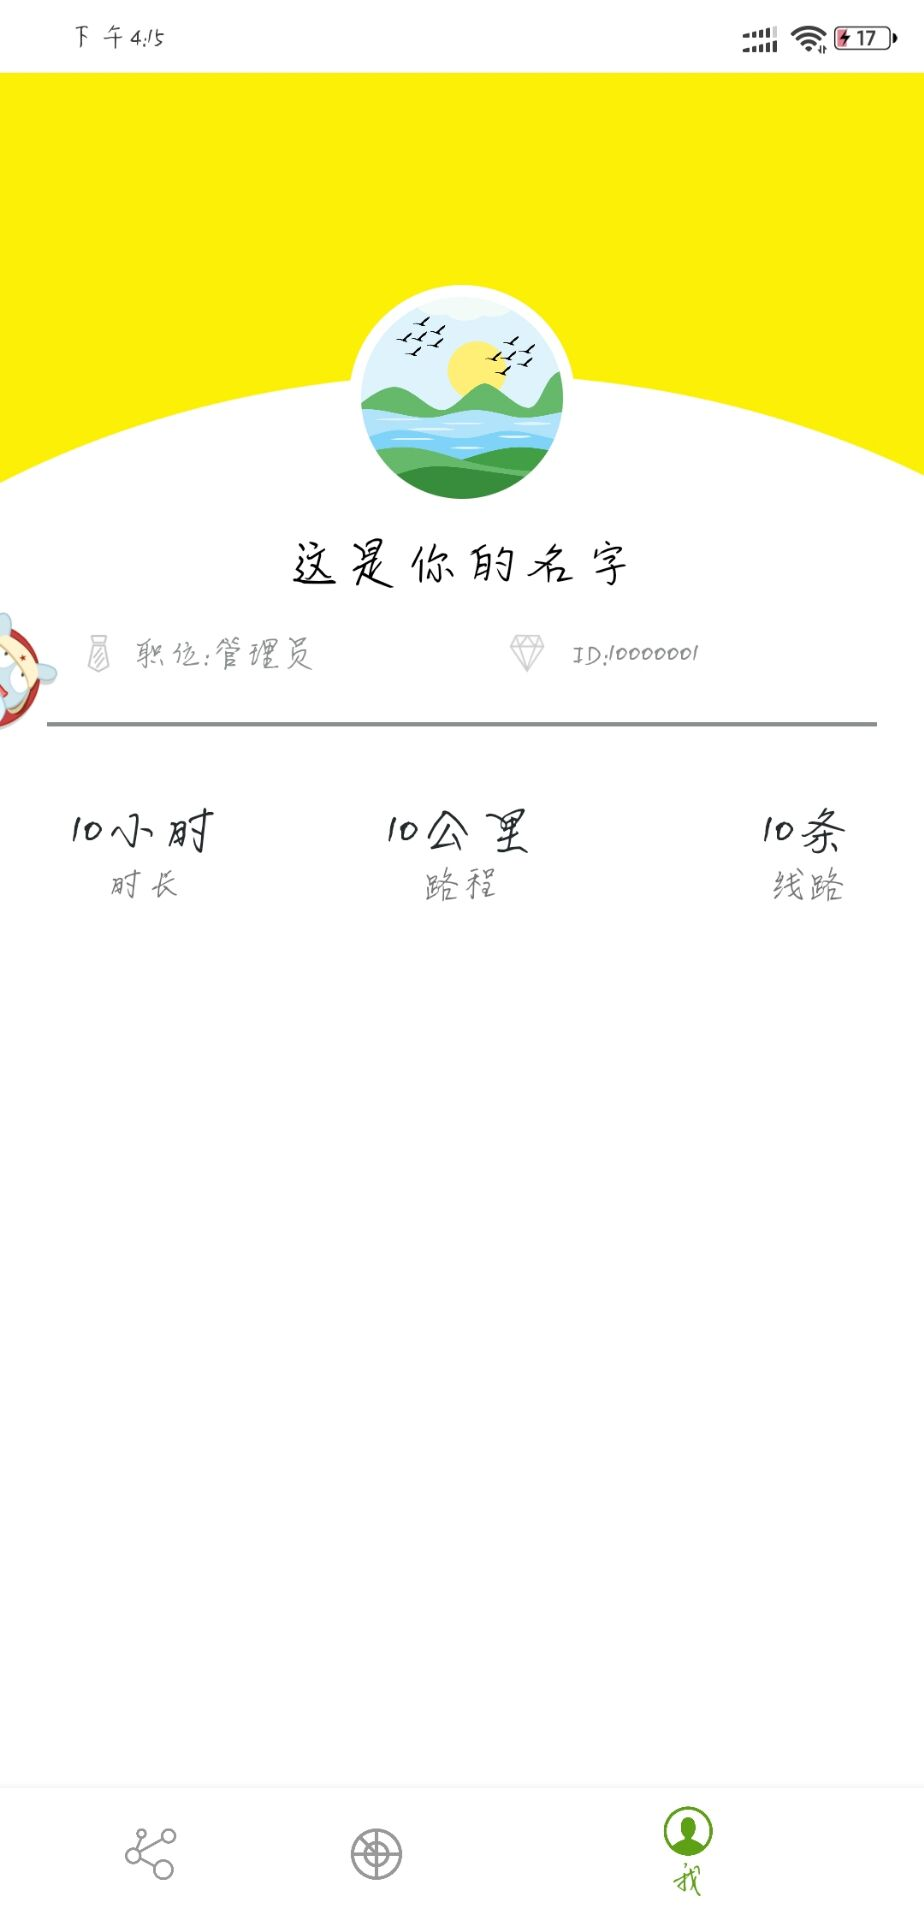
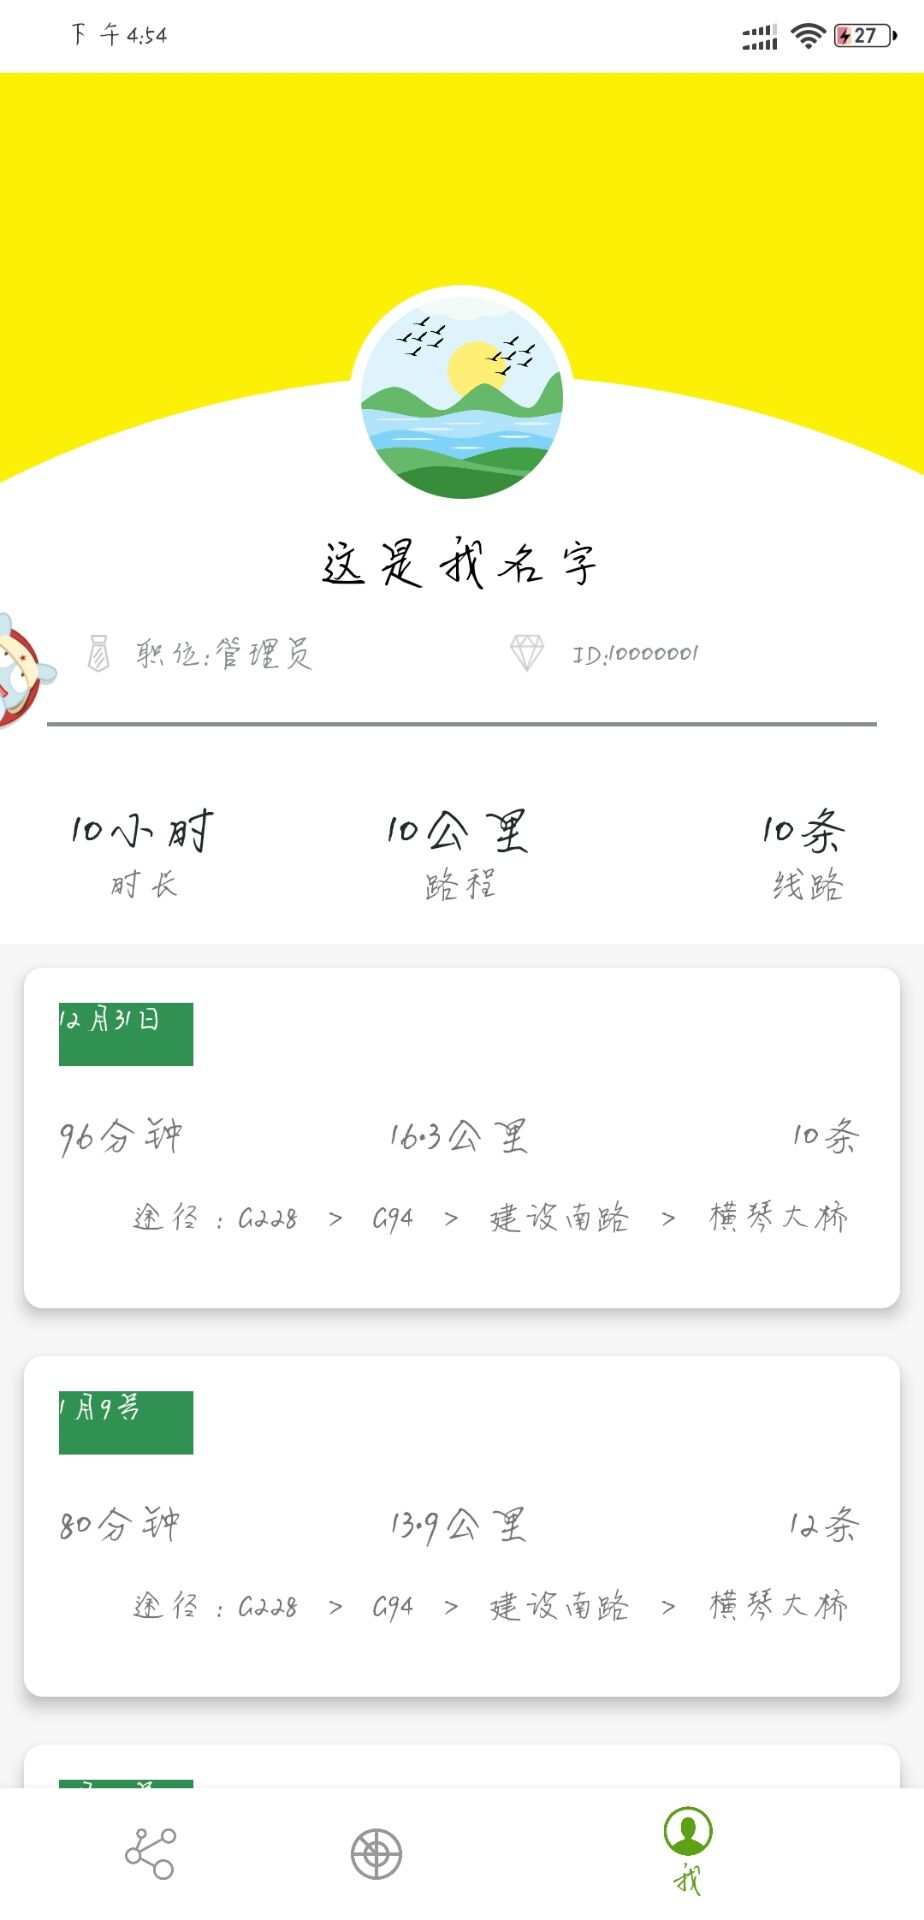
:bug: changed pictures

diff --git a/app/src/main/java/com/example/a65667/road/fragment/MineFragment.java b/app/src/main/java/com/example/a65667/road/fragment/MineFragment.java
@@ -37,7 +37,6 @@ public class MineFragment extends Fragment {
     @Override
     public void onCreate(Bundle savedInstanceState) {
         super.onCreate(savedInstanceState);
-
     }
 
     @Nullable
@@ -49,37 +48,30 @@ public class MineFragment extends Fragment {
     }
 
     private void initView(){
-        List<String> startList = new ArrayList<>();
-        List<String> endList = new ArrayList<>();
+        List<String> dataTime = new ArrayList<>();
         List<String> lastTime = new ArrayList<>();
         List<String> holeCount = new ArrayList<>();
         List<String> crackCount = new ArrayList<>();
 
+        dataTime.add("12月31日");
+        lastTime.add("96分钟");
+        holeCount.add("16.3公里");
+        crackCount.add("10条");
 
-        startList.add("开始: 2019年11月10日 18:02");
-        endList.add("结束: 2019年11月10日 18:27");
-        lastTime.add("时长:25分钟");
-        holeCount.add("坑数:8个");
-        crackCount.add("缝数42条");
+        dataTime.add("1月9号");
+        lastTime.add("80分钟");
+        holeCount.add("13.9公里");
+        crackCount.add("12条");
 
+        dataTime.add("1月20号");
+        lastTime.add("105分钟");
+        holeCount.add("19.4公里");
+        crackCount.add("8条");
 
-        startList.add("开始: 2019年10月6日 15:46");
-        endList.add("结束: 2019年10月6日 16:42");
-        lastTime.add("时长:56分钟");
-        holeCount.add("坑数:4个");
-        crackCount.add("缝数:11条");
-
-        startList.add("开始: 2019年10月5日 11:43");
-        endList.add("结束: 2019年10月5日 12:07");
-        lastTime.add("时长:24分钟");
-        holeCount.add("坑数:1个");
-        crackCount.add("缝数:13条");
-
-        startList.add("开始: 2019年10月5日 9:13");
-        endList.add("结束: 2019年10月5日 9:27");
-        lastTime.add("时长:14分钟");
-        holeCount.add("坑数:3个");
-        crackCount.add("缝数:21条");
+        dataTime.add("2月4号");
+        lastTime.add("96分钟");
+        holeCount.add("16.3公里");
+        crackCount.add("10条");
 
         recyclerView = root.findViewById(R.id.rv_mine);
         mAdaper = new MultiTypeAdapter();
@@ -88,10 +80,9 @@ public class MineFragment extends Fragment {
         recyclerView.setAdapter(mAdaper);
         mItems = new Items();
         mItems.add(new MineTopItem());
-        for (int i = 0; i < startList.size(); i++) {
+        for (int i = 0; i < lastTime.size(); i++) {
             MineRecordItem mineRecordItem = new MineRecordItem();
-            mineRecordItem.setStartTime(startList.get(i));
-            mineRecordItem.setEndTime(endList.get(i));
+            mineRecordItem.setDataTime(dataTime.get(i));
             mineRecordItem.setLastTime(lastTime.get(i));
             mineRecordItem.setHoleCount(holeCount.get(i));
             mineRecordItem.setCrackCount(crackCount.get(i));

diff --git a/app/src/main/java/com/example/a65667/road/binder/MineRecordItemViewBinder.java b/app/src/main/java/com/example/a65667/road/binder/MineRecordItemViewBinder.java
@@ -15,7 +15,7 @@ import me.drakeet.multitype.ItemViewBinder;
 public class MineRecordItemViewBinder extends ItemViewBinder<MineRecordItem, MineRecordItemViewBinder.ViewHolder> {
     private MineRecordItem mineRecordItem;
     private View root;
-    private TextView tvLast, tvHole, tvCrack;
+    private TextView tvData, tvLast, tvHole, tvCrack;
 
     @NonNull
     @Override
@@ -31,9 +31,11 @@ public class MineRecordItemViewBinder extends ItemViewBinder<MineRecordItem, Min
     }
 
     private void initView() {
+        tvData = root.findViewById(R.id.tv_data);
         tvLast = root.findViewById(R.id.tv_last_time);
         tvHole = root.findViewById(R.id.tv_hole_count);
         tvCrack = root.findViewById(R.id.tv_crack_count);
+        tvData.setText(mineRecordItem.getDataTime());
         tvLast.setText(mineRecordItem.getLastTime());
         tvHole.setText(mineRecordItem.getHoleCount());
         tvCrack.setText(mineRecordItem.getCrackCount());

diff --git a/app/src/main/java/com/example/a65667/road/Item/MineRecordItem.java b/app/src/main/java/com/example/a65667/road/Item/MineRecordItem.java
@@ -1,11 +1,20 @@
 package com.example.a65667.road.Item;
 
 public class MineRecordItem {
+    private String dataTime;
     private String startTime;
     private String endTime;
     private String lastTime;
     private String holeCount;
     private String crackCount;
+
+    public String getDataTime() {
+        return dataTime;
+    }
+
+    public void setDataTime(String dataTime) {
+        this.dataTime = dataTime;
+    }
 
     public String getStartTime() {
         return startTime;
